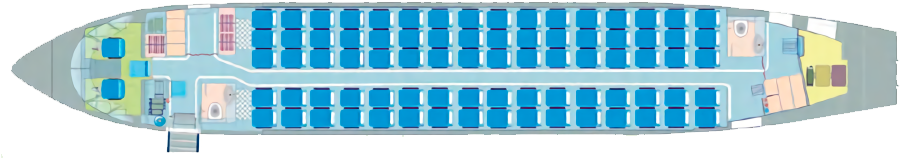
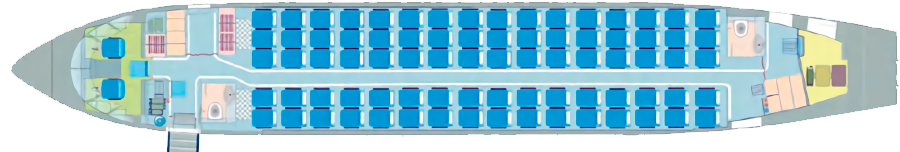
fix(static): delet point-markers in 'Летный состав'. fix(img): clear white spot on layout(4) for An.

diff --git a/static/trainingAn.html b/static/trainingAn.html
@@ -511,7 +511,7 @@
                     <br />
 
                     <div>
-                        <ul class="about-list">
+                        <ul>
                             <li>
                                 *Продолжительность подготовки по Курсам повышения квалификации
                                 летного состава на ВС Ан-148 может быть изменена в случае с
@@ -667,7 +667,7 @@
                     <br />
 
                     <div>
-                        <ul class="about-list">
+                        <ul>
                             <li>
                                 * При проведении занятий по дисциплине «Аварийно-спасательная
                                 подготовка. Бортовое аварийно-спасательное оборудование»
@@ -899,7 +899,7 @@
                     <br />
 
                     <div>
-                        <ul class="about-list">
+                        <ul>
                             <li>
                                 (1) Указанное количество часов при изучении одного из заявленных
                                 типов ВС.

diff --git a/static/trainingIl.html b/static/trainingIl.html
@@ -380,7 +380,7 @@
                     <br />
 
                     <div>
-                        <ul class="about-list">
+                        <ul>
                             <li>
                                 *Продолжительность подготовки по Курсам повышения квалификации
                                 летного состава на ВС Ан-148 может быть изменена в случае с
@@ -536,7 +536,7 @@
                     <br />
 
                     <div>
-                        <ul class="about-list">
+                        <ul>
                             <li>
                                 * При проведении занятий по дисциплине «Аварийно-спасательная
                                 подготовка. Бортовое аварийно-спасательное оборудование»
@@ -768,7 +768,7 @@
                     <br />
 
                     <div>
-                        <ul class="about-list">
+                        <ul>
                             <li>
                                 (1) Указанное количество часов при изучении одного из заявленных
                                 типов ВС.
